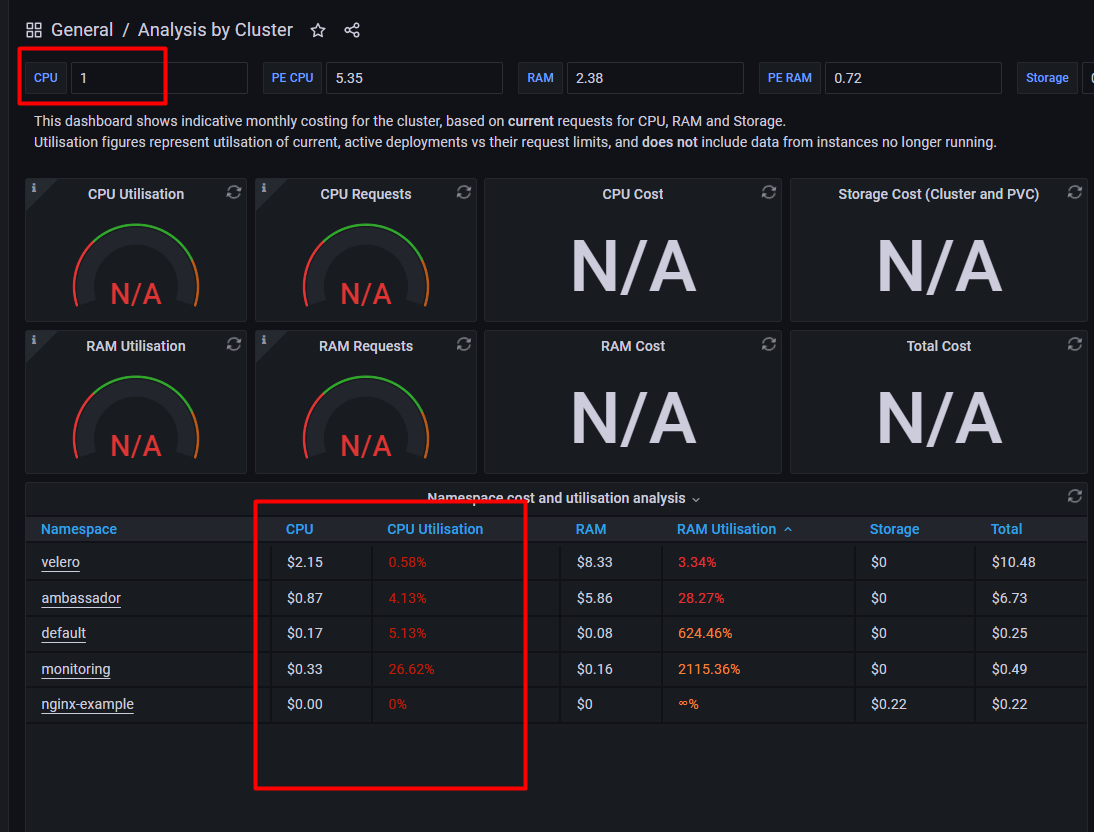
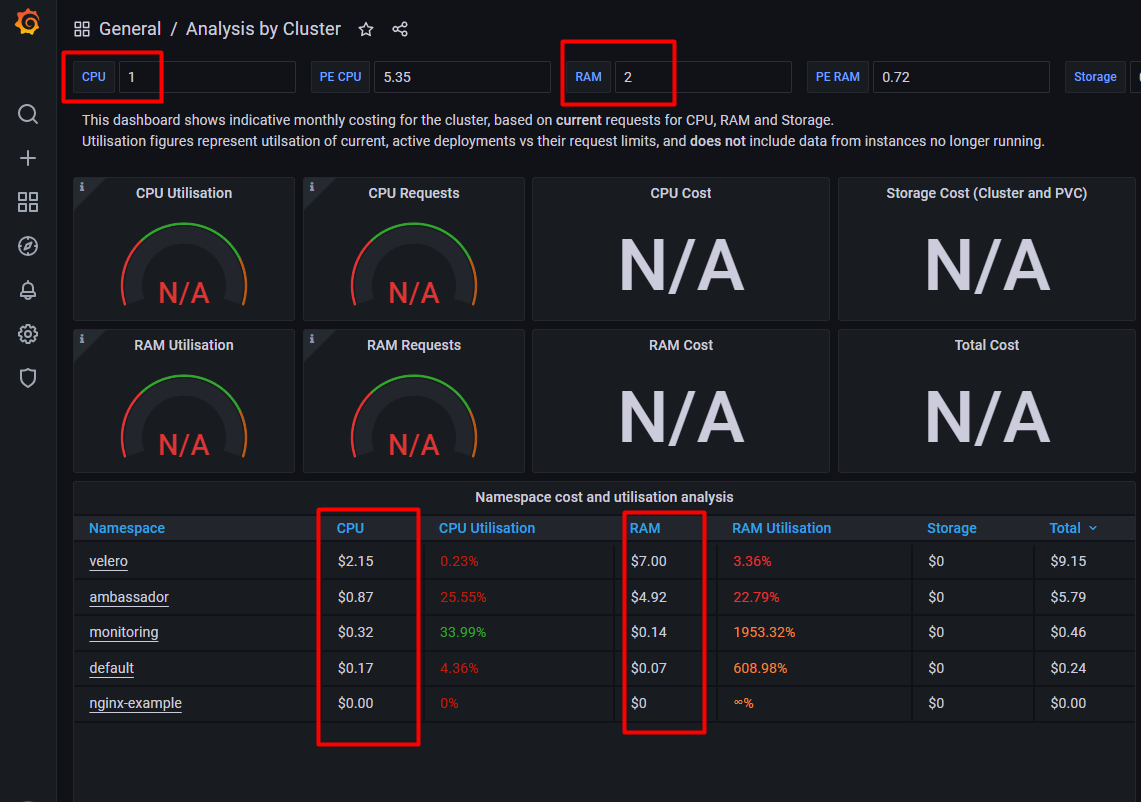
update for Estimate resources for startup kit with Cost analysis for your DOKS cluster

diff --git a/14-starter-kit-resource-usage/README.md b/14-starter-kit-resource-usage/README.md
@@ -1,22 +1,10 @@
 ## Cost analysis for your DOKS cluster<a name="COST"></a>
 
-In this part, we’ll focus on introductory CPU monitoring by using simple method, Grafana has some custom dashboards for these purposes.  the size of `Overall CPU Utilisation`,`RAM Utilisation`, `Network IO`, `Disk IO`, `Pod cost` and `utilisation analysis`.These are all key elements that affect the performance of your infrastructure. In grafana, you can use  `6876` or `6873` or `6879` number of dashboard in 'http://localhost:3000/dashboard/import'. Look Below for Dashboard.
+In this part, we’ll focus on introductory CPU monitoring by using simple method, Grafana has some custom dashboards for these purposes.  the size of `Overall CPU Utilisation`,`RAM Utilisation`, `Network IO`, `Disk IO`, `Pod cost` and `utilisation analysis`.These are all key elements that affect the performance of your infrastructure. In grafana, you can use  `6876` or `6873` or `6879` number of dashboard in 'http://localhost:3000/dashboard/import'.Refer to these dashboards.
 
 ![Dashboard-Cost-CPU-Monitoring](../images/monitoring_cpu_cost.png)
 
 As we already have the Grafana installed, we can review the dashboards (go to dashboards -> manage) to look at the cpu/memory utilized by each of the namespaces (velero, ambassador, prometheus/loki/grafana). 
-Refer to these dashboards.For our starter kit, we're using  `cpu`, and `memory`. 
+Refer to these dashboards.For our starter kit, we're using  `CPU : 1`, and `RAM : 2` as memory. 
 
 For a ballpark sizing, say you're using a node pool for 2 nodes, 4cpu/8gb each. This is about $96/month for the cluster. You will have 6cpu/8gb RAM remaining for use after DOKS installation. If you install the starter kit, then you will have 4cpu/6gb RAM remaining for your applications.
-## Estimate resources for startup kit 
-As we already have the Grafana installed, we can review the dashboards (go to dashboards -> manage) to look at the cpu/memory utilized by each of the namespaces (velero, ambassador, prometheus/loki/grafana). 
-
-Refer to these dashboards.
-<TBD>
-
-For our starter kit, we're using <TBD> cpu, and <TBD> memory. 
-
-For a ballpark sizing, say you're using a node pool for 2 nodes, 4cpu/8gb each. This is about $96/month for the cluster. You will have 6cpu/8gb RAM remaining for use after DOKS installation. If you install the starter kit, then you will have <TBD-4cpu/6gb> RAM remaining for your applications.
-
-
-This is the last section for manual setup of startup kit.

diff --git a/README.md b/README.md
@@ -30,8 +30,7 @@ Below is a diagram giving a high level overview of the setup presented in this t
 5. [Logs Aggregation via Loki Stack](5-setup-loki-stack)
 6. [Backup Using Velero](6-setup-velero)
 7. [Cost analysis for your DOKS cluster](14-starter-kit-resource-usage)
-8. [Estimate resource usage of starter kit](14-starter-kit-resource-usage)
-9. [Automate Everything Using Terraform and Flux](50-automate-with-terraform-flux)
+8. [Automate Everything Using Terraform and Flux](50-automate-with-terraform-flux)
 
 
 ## Scope <a name="SCOP"></a>
